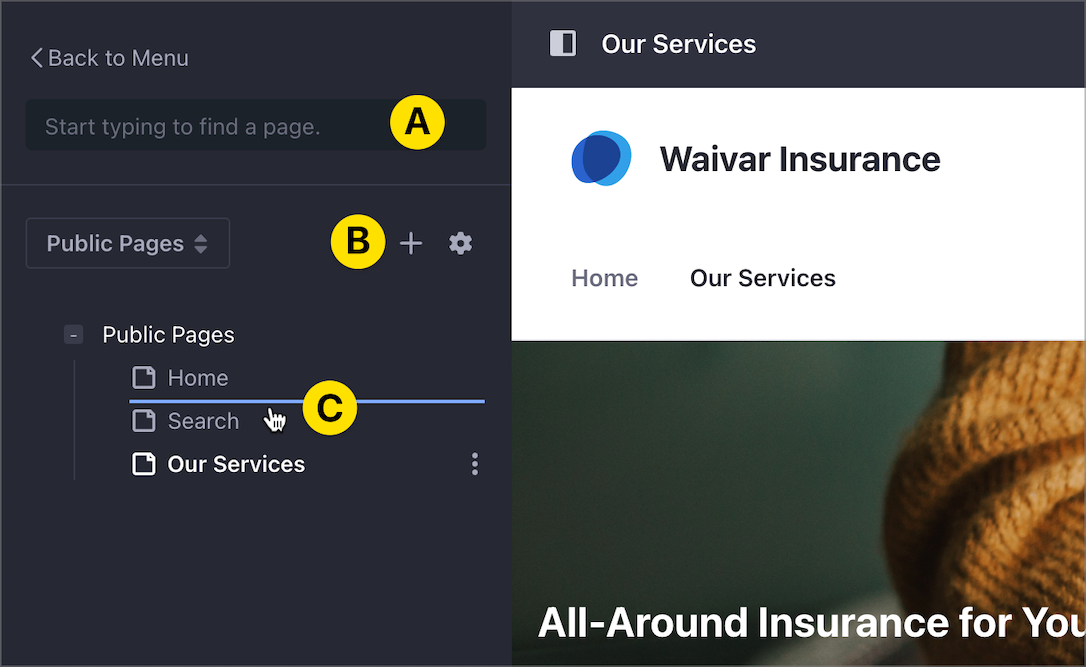
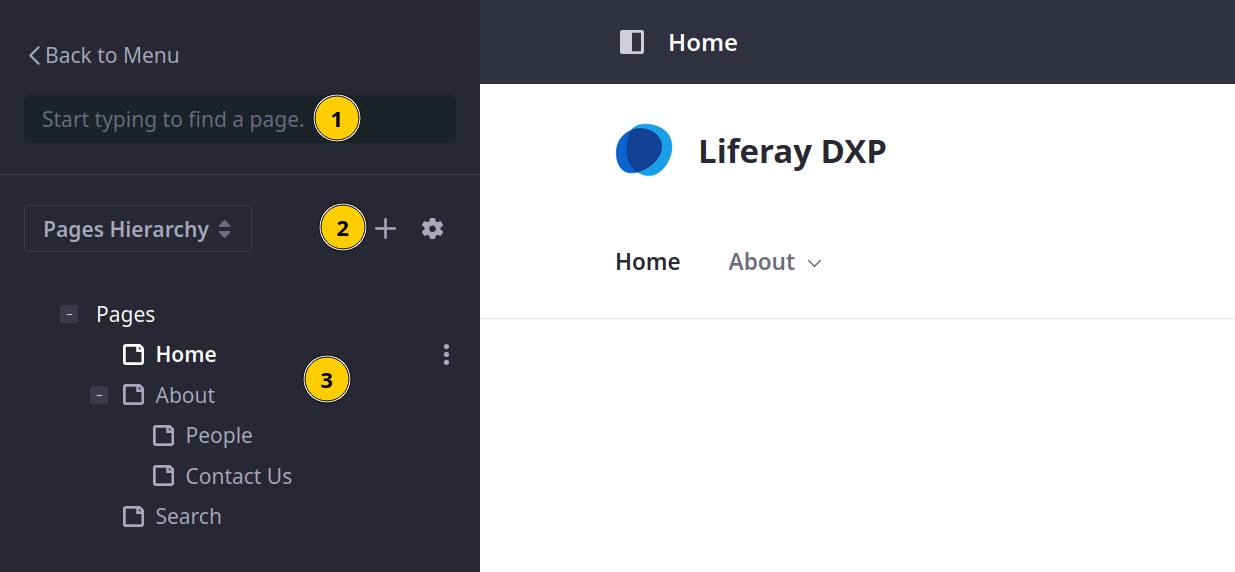
LRDOCS-10442 updates Managing Site Navigation

diff --git a/docs/dxp/latest/en/site-building/site-navigation/managing-site-navigation.md b/docs/dxp/latest/en/site-building/site-navigation/managing-site-navigation.md
@@ -18,7 +18,7 @@ The hierarchy as displayed on _Site Builder_ &rarr; _Pages_ menu is the main ref
 
 ![The Site Builder's Pages Menu serves as the primary reference for all the pages on a site.](./managing-site-navigation/images/01.png)
 
-New pages are created on the _Site Builder_ &rarr; _Pages_ menu. Pages can be public which anyone can view, or private which can only be viewed by Site members. See [Adding a Page to a Site](../creating-pages/adding-pages/adding-a-page-to-a-site.md) to learn how to add a Page.
+New pages are created on the _Site Builder_ &rarr; _Pages_ menu. See [Adding a Page to a Site](../creating-pages/adding-pages/adding-a-page-to-a-site.md) to learn how to add a Page.
 
 ## Using Navigation Menus
 
@@ -39,14 +39,14 @@ To access the page tree,
 
     ![View each Site's Page Tree.](./managing-site-navigation/images/03.png)
 
-1. Change between your public and private Pages using the drop-down menu. You can also choose your Navigation Menus from this drop-down control.
+1. You can choose your Navigation Menus from this drop-down control.
 
 1. From here you can
 
-   - Find pages in the tree by using the search bar (A).
+   - Find pages in the tree by using the search bar (1).
    - Click on any Page for a Page preview.
-   - Add Pages or configure Pages using the Add (![Add](../../images/icon-plus.png)) and Configure (![Configure](../../images/icon-settings.png)) buttons, and the Actions menu (![Actions Menu](../../images/icon-actions.png)) next to each Page's name (B).
-   - Modify the order of Pages in the navigation menu by dragging and dropping the Pages in the tree (C).
+   - Add Pages or configure Pages using the Add (![Add](../../images/icon-plus.png)) and Configure (![Configure](../../images/icon-settings.png)) buttons, and the Actions menu (![Actions Menu](../../images/icon-actions.png)) next to each Page's name (2).
+   - Modify the order of Pages in the navigation menu by dragging and dropping the Pages in the tree (3).
 
    ![You can add, preview, configure, or reorder Pages from the Page Tree menu.](./managing-site-navigation/images/04.png)
 
